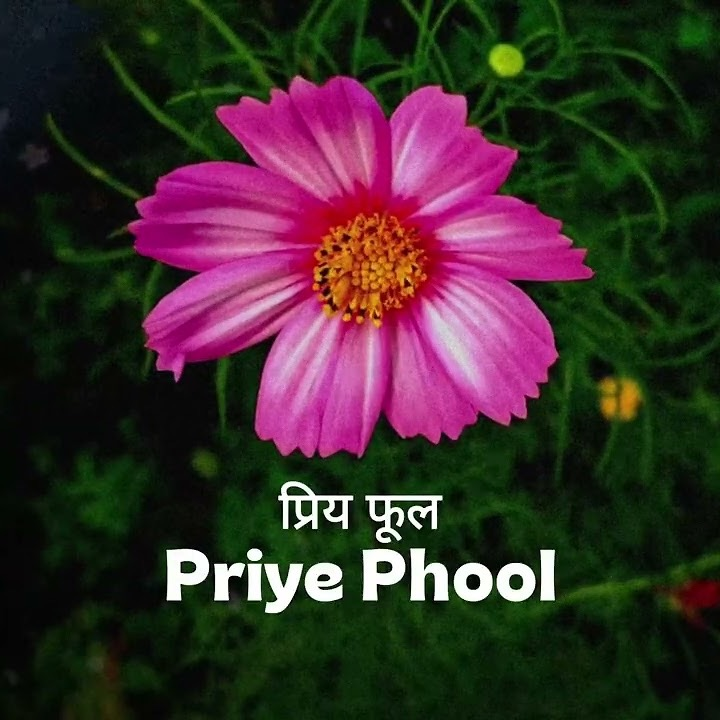
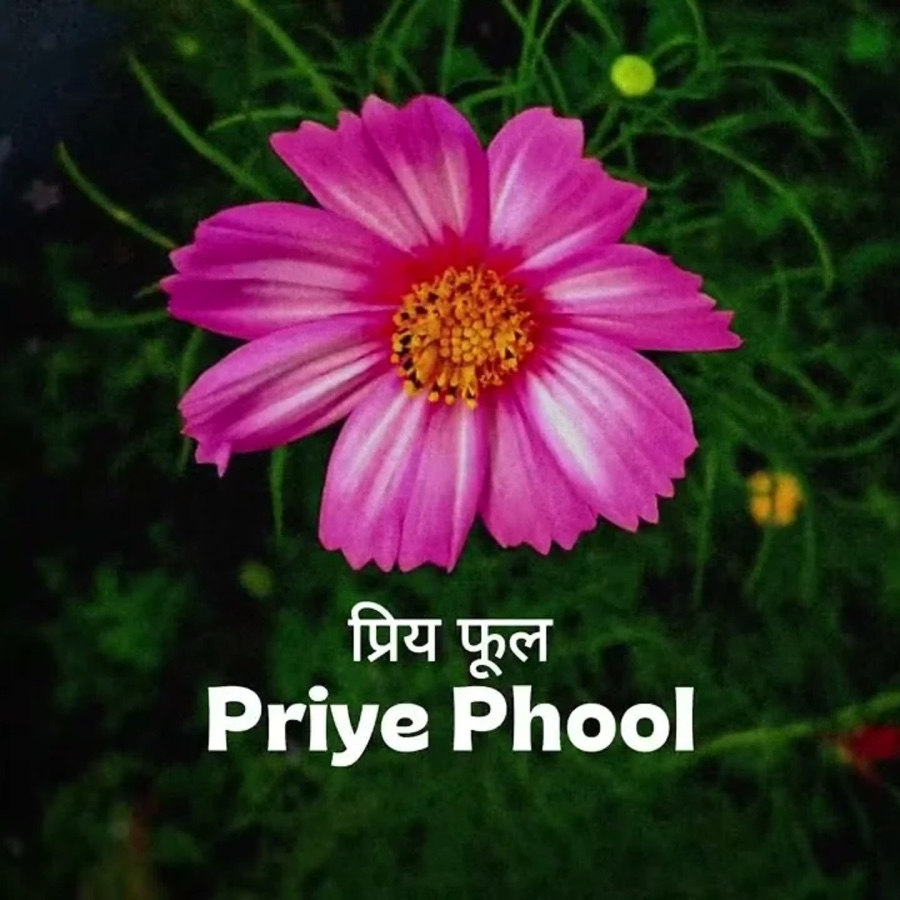
Priye Phool: new cover and 2026 year

Changed region(s): [[0.5194, 0.6722, 0.7639, 0.825], [0.2444, 0.7639, 0.4889, 0.8556], [0.3972, 0.6722, 0.4889, 0.7333]]

diff --git a/music.html b/music.html
@@ -1,1 +1,1 @@
-<!doctype html><html lang="en"><head><meta charset="utf-8"><meta name="viewport" content="width=device-width,initial-scale=1"><title>Music | Nikesh Lagun</title><meta name="description" content="Creative pursuits in acoustic songwriting and performance"><link rel="preconnect" href="https://fonts.googleapis.com"><link rel="preconnect" href="https://fonts.gstatic.com" crossorigin><link href="https://fonts.googleapis.com/css2?family=Instrument+Serif:ital@0;1&family=Inter:wght@300;400;500;600;700&display=swap" rel="stylesheet"><link rel="icon" type="image/svg+xml" href="img/favicon.svg"><meta name="theme-color" content="#40734D"><meta property="og:type" content="website"><meta property="og:site_name" content="Nikesh Lagun"><meta property="og:title" content="Music | Nikesh Lagun"><meta property="og:description" content="Creative pursuits in acoustic songwriting and performance"><meta property="og:image" content="https://nikeshlagun.com.np/img/nikesh.jpg"><meta name="twitter:card" content="summary_large_image"><link rel="canonical" href="https://nikeshlagun.com.np/music.html"><link rel="stylesheet" href="css/style.css"></head><body><header class="nav-wrap"><nav class="nav" id="nav"><a class="brand" href="index.html" aria-label="Nikesh Lagun, home"><img class="av" src="img/nikesh.jpg" alt=""><span class="logo-text">Nikesh Lagun</span></a><button class="burger" id="burger" aria-label="Menu"><span></span><span></span></button><div class="links" id="links"><div class="dd"><button class="ddbtn" type="button">Books &#9662;</button><div class="ddmenu"><a href="books.html">All books</a><a href="switch-on.html">Switch On (free)</a><a href="unspoken-goodbye.html">Unspoken Goodbye</a></div></div><a href="articles.html">Articles</a><a href="tips.html">Try it</a><a href="app.html">App <span class="soon">Soon</span></a><div class="dd"><button class="ddbtn" type="button">My research &#9662;</button><div class="ddmenu"><a href="research.html">Research map</a><a href="cognitive-drive-architecture.html">The big idea</a><a href="lagunian-dynamics.html">How it works</a><a href="publications.html">Papers</a><a href="https://lagun-lab.lovable.app" target="_blank" rel="noopener">Lagun Lab &#8599;</a><a href="https://www.scopus.com/authid/detail.uri?authorId=60009209500" target="_blank" rel="noopener">Scopus profile &#8599;</a></div></div><a href="about.html">About</a><button class="navsearch" type="button" aria-label="Search the site"><svg width="15" height="15" viewBox="0 0 20 20" fill="none" stroke="currentColor" stroke-width="2" stroke-linecap="round"><circle cx="9" cy="9" r="6"/><path d="M14 14l4 4"/></svg>Search <kbd>/</kbd></button><a class="cta-pill" href="switch-on.html#free">Read free book <i class="arrow">&#8599;</i></a></div></nav></header><section class="hero small warm"><div class="glow g1"></div><div class="wrap center"><span class="eyebrow">Creative Expression &amp; Cognitive Flow</span><div style="margin:6px 0 14px"><span class="eq"><i></i><i></i><i></i><i></i><i></i></span></div><h1> <em>Music</em></h1><p class="lead">Creative pursuits in acoustic songwriting and performance</p></div></section><section class="light dots"><div class="wrap duo"><div class="doc-m"><h2 class="sec-h">Music as an Extension of Cognitive Flow</h2><p>In addition to my theoretical work, I compose and perform original acoustic and pop music. Music has served as both a creative outlet and an experiential laboratory for understanding Drive, Flow, and performance dynamics.</p><p>Much of my theoretical work on Tension domain dynamics in CDA was informed by observing these variables in the context of extended musical practice and public performance.</p><h2 class="sec-h">Selected Works</h2><p>Hover over a record to slide the CD out and hear a short preview. On a phone, tap the record.</p><button class="soundbtn" id="soundbtn" type="button" aria-pressed="false"><i class="si"></i><span>Tap to turn sound on</span></button></div><aside class="doc-r"><div class="acard"><h4>Listen everywhere</h4><div class="alinks"><a href="https://open.spotify.com/artist/6xrah1XJbOOwV1KYTfFDBm" target="_blank" rel="noopener">Spotify <span>&#8599;</span></a><a href="https://www.youtube.com/@nikeshlagun03" target="_blank" rel="noopener">YouTube <span>&#8599;</span></a><a href="https://www.deezer.com/en/artist/272000692" target="_blank" rel="noopener">Deezer <span>&#8599;</span></a></div></div><div class="acard"><h4>Recognition</h4><p style="margin:0">Ranked #35 in the Pop category for Deezer fans in Nepal over 12 months (2025).</p><div class="alinks" style="margin-top:8px"><a href="https://www.viberate.com/artist/nikesh-lagun/" target="_blank" rel="noopener">Source <span>&#8599;</span></a></div></div></aside></div><div class="wrap"><div class="albums" id="albums"><div class="alb feature" data-audio="audio/parkhiraxu.wav"><div class="disc"><div class="cd"><div class="cdi"><i class="cdl"></i><i class="cdm"></i></div></div><div class="sleeve" style="background:linear-gradient(145deg,#5b4a3a,#1d1a17)"><img src="img/albums/parkhiraxu.jpg" alt="Parkhiraxu cover" onerror="this.remove()"><div class="ph"><span>Parkhiraxu</span><small>Nikesh Lagun</small></div></div></div><div class="ainfo"><button class="playbtn" type="button" aria-label="Play preview"><i class="pi"></i><span>Play preview</span></button><span class="tag">Latest single &middot; 2025</span><h3>Parkhiraxu</h3><p>My latest release. Official release on Spotify and YouTube, plus a sped-up version.</p><div class="row-btns" style="margin:0"><a class="btn btn-mini" href="https://open.spotify.com/track/5gO0QQGFNq63xM4Bt1Cima" target="_blank" rel="noopener">Spotify</a><a class="btn btn-mini" href="https://www.youtube.com/watch?v=aEZB_pVdTeA" target="_blank" rel="noopener">YouTube</a><a class="btn btn-mini" href="https://open.spotify.com/album/5WUUtXBhMBQmnjEegUJglC" target="_blank" rel="noopener">Sped-up version</a></div></div></div><div class="alb" data-audio="audio/priya_phool.wav"><div class="disc"><div class="cd"><div class="cdi"><i class="cdl"></i><i class="cdm"></i></div></div><div class="sleeve" style="background:linear-gradient(145deg,#b0307a,#1d3a26)"><img src="img/albums/priye-phool.jpg" alt="Priye Phool cover" onerror="this.remove()"><div class="ph"><span>Priye Phool</span><small>Nikesh Lagun</small></div></div></div><div class="ainfo"><button class="playbtn" type="button" aria-label="Play preview"><i class="pi"></i><span>Play preview</span></button><span class="tag">Original</span><h3>Priye Phool</h3><p>A soft song for a flower you love.</p></div></div><div class="alb" data-audio="audio/timi_ra_ma.wav"><div class="disc"><div class="cd"><div class="cdi"><i class="cdl"></i><i class="cdm"></i></div></div><div class="sleeve" style="background:linear-gradient(145deg,#B7A7D9,#40734D)"><img src="img/albums/timi-ra-ma.jpg" alt="Timi Ra Ma cover" onerror="this.remove()"><div class="ph"><span>Timi Ra Ma</span><small>Nikesh Lagun</small></div></div></div><div class="ainfo"><button class="playbtn" type="button" aria-label="Play preview"><i class="pi"></i><span>Play preview</span></button><span class="tag">Original · 2023</span><h3>Timi Ra Ma</h3><p>A gentle acoustic pop song about feelings, with a very simple arrangement.</p><div class="row-btns" style="margin:0"><a class="btn btn-mini" href="https://youtu.be/NZ_-13Cbvvs?si=_IxAdCCwFXn8BH7A" target="_blank" rel="noopener">YouTube</a></div></div></div><div class="alb" data-audio="audio/mayalu.wav"><div class="disc"><div class="cd"><div class="cdi"><i class="cdl"></i><i class="cdm"></i></div></div><div class="sleeve" style="background:linear-gradient(145deg,#D98B48,#B7A7D9)"><img src="img/albums/mayalu.jpg" alt="Mayalu cover" onerror="this.remove()"><div class="ph"><span>Mayalu</span><small>Nikesh Lagun</small></div></div></div><div class="ainfo"><button class="playbtn" type="button" aria-label="Play preview"><i class="pi"></i><span>Play preview</span></button><span class="tag">Original · 2023</span><h3>Mayalu</h3><p>A layered, guitar-led song about holding your focus on one thing.</p><div class="row-btns" style="margin:0"><a class="btn btn-mini" href="https://open.spotify.com/track/5CNr8ZFHXsyDMIW1C2IPoy?si=816ba9692e1349df" target="_blank" rel="noopener">Spotify</a><a class="btn btn-mini" href="https://youtu.be/9KtHtfZSQ4Q?si=q4G7wEqHxjQZ3e-4" target="_blank" rel="noopener">YouTube</a></div></div></div><div class="alb" data-audio="audio/ekasi_timi.wav"><div class="disc"><div class="cd"><div class="cdi"><i class="cdl"></i><i class="cdm"></i></div></div><div class="sleeve" style="background:linear-gradient(145deg,#C7D9CC,#40734D)"><img src="img/albums/ekasi-timi.jpg" alt="Ekasi Timi cover" onerror="this.remove()"><div class="ph"><span>Ekasi Timi</span><small>Nikesh Lagun</small></div></div></div><div class="ainfo"><button class="playbtn" type="button" aria-label="Play preview"><i class="pi"></i><span>Play preview</span></button><span class="tag">Featured artist · 2024</span><h3>Ekasi Timi</h3><p>A team song about how a group falls into flow together.</p><div class="row-btns" style="margin:0"><a class="btn btn-mini" href="https://open.spotify.com/album/1uQxchSuRRTHpqJxOpjFtm?si=kl0uD_bLTVecZFazNmt3NA" target="_blank" rel="noopener">Spotify</a><a class="btn btn-mini" href="https://youtu.be/T_xrI_TRY_4?si=n5sHMW9GwfSipJWd" target="_blank" rel="noopener">YouTube</a></div></div></div><div class="alb" data-audio="audio/bhagi_jaun.wav"><div class="disc"><div class="cd"><div class="cdi"><i class="cdl"></i><i class="cdm"></i></div></div><div class="sleeve" style="background:linear-gradient(145deg,#40734D,#D98B48)"><img src="img/albums/bhagi-jaun.jpg" alt="Bhagi Jaun cover" onerror="this.remove()"><div class="ph"><span>Bhagi Jaun</span><small>Nikesh Lagun</small></div></div></div><div class="ainfo"><button class="playbtn" type="button" aria-label="Play preview"><i class="pi"></i><span>Play preview</span></button><span class="tag">Featured artist · 2022</span><h3>Bhagi Jaun</h3><p>An up-tempo song with a changing rhythm, showing how small wobbles shape a performance.</p><div class="row-btns" style="margin:0"><a class="btn btn-mini" href="https://open.spotify.com/album/60OnRZqdOoN388U5yp5tIZ?si=gdOOipdmRNCJWZ1wJSp9jA" target="_blank" rel="noopener">Spotify</a><a class="btn btn-mini" href="https://youtu.be/nrVfHMrA8OE?si=d5PX5pSjLdChSJqv" target="_blank" rel="noopener">YouTube</a></div></div></div></div></div><div class="wrap cols2"><h2 class="sec-h">Music as a Cognitive Laboratory</h2><p>For theorists of effort and Flow, music remains an invaluable test domain:</p><ul class="ticks"><li>Effort is embodied and measurable in performance</li><li>Attention, resistance, and flexibility can be observed dynamically</li><li>Success and collapse states in Drive are immediately perceptible</li></ul><p>My continued engagement with music informs and is informed by the evolving CDA field. In this way, creative practice remains integrated with the broader inquiry into the structure of human effort.</p><h2 class="sec-h">Listen and Explore</h2><a class="btn btn-mini" href="https://open.spotify.com/artist/6xrah1XJbOOwV1KYTfFDBm" target="_blank" rel="noopener">Spotify Listen Now</a> <a class="btn btn-mini" href="https://www.youtube.com/@nikeshlagun03" target="_blank" rel="noopener">YouTube Listen Now</a> <a class="btn btn-mini" href="https://www.deezer.com/en/artist/272000692" target="_blank" rel="noopener">Deezer Listen Now</a> </div></section><footer class="footer"><div class="wrap"><div class="foot-cta"><h2>Ready to <em>start</em>?</h2><div class="foot-btns"><a class="btn btn-orange" href="switch-on.html#free">Read my free book <i class="arrow">&#8599;</i></a><a class="btn btn-light" href="app.html">Join the app waitlist</a></div></div><div class="foot-grid"><div><a class="brand" href="index.html"><img class="av" src="img/nikesh.jpg" alt=""><span class="logo-text">Nikesh Lagun</span></a><p class="muted">Author and researcher. I write about why starting and staying focused are hard, and how to make them easier. Founder of Cognitive Drive Architecture, a proposed new area of psychology.</p><div class="social"><a href="https://www.youtube.com/@nikeshlagun03" target="_blank" rel="noopener">YouTube</a><a href="https://www.instagram.com/neekeesh03" target="_blank" rel="noopener">Instagram</a><a href="https://www.linkedin.com/in/neekeesh03/" target="_blank" rel="noopener">LinkedIn</a><a href="https://nikeshlagun.substack.com/" target="_blank" rel="noopener">Newsletter</a></div></div><div><h4>Read</h4><a href="books.html">Books</a><a href="switch-on.html">Switch On (free)</a><a href="unspoken-goodbye.html">Unspoken Goodbye</a><a href="articles.html">Articles</a></div><div><h4>Try</h4><a href="tips.html">15-second check</a><a href="tips.html#tips">Simple tips</a><a href="app.html">The app (soon)</a></div><div><h4>More</h4><a href="about.html">About</a><a href="cognitive-drive-architecture.html">My research</a><a href="music.html">Music</a><a href="https://lagun-lab.lovable.app" target="_blank" rel="noopener">Lagun Lab</a><a href="contact.html">Contact</a></div></div><div class="indexed"><span>My research is listed on:</span><a href="https://www.scopus.com/authid/detail.uri?authorId=60009209500" target="_blank" rel="noopener">Scopus</a><a href="https://www.researchgate.net/profile/Nikesh-Lagun" target="_blank" rel="noopener">ResearchGate</a><a href="https://scholar.google.com/citations?user=nGsGSgIAAAAJ&hl=en&oi=ao" target="_blank" rel="noopener">Google Scholar</a><a href="https://orcid.org/0009-0005-6372-4852" target="_blank" rel="noopener">ORCID</a><a href="https://ssrn.com/author=7293736" target="_blank" rel="noopener">SSRN</a><a href="https://figshare.com/authors/Nikesh_Lagun/18114037" target="_blank" rel="noopener">Figshare</a><a href="https://www.semanticscholar.org/author/Nikesh-Lagun/2304103301" target="_blank" rel="noopener">Semantic Scholar</a><a href="https://cv.hal.science/nikesh-lagun" target="_blank" rel="noopener">HAL Science</a><a href="https://search.worldcat.org/search?q=nikesh+lagun&offset=1" target="_blank" rel="noopener">WorldCat</a><a href="https://hollis.harvard.edu/primo-explore/search?search-banner-input=nikesh%20lagun&tab=everything&vid=HVD2&lang=en_US&offset=0&query=any,contains,nikesh%20lagun" target="_blank" rel="noopener">Harvard Library</a></div><div class="copy">&copy; 2026 Nikesh Lagun. All rights reserved.</div></div></footer><script src="js/main.js"></script></body></html>
+<!doctype html><html lang="en"><head><meta charset="utf-8"><meta name="viewport" content="width=device-width,initial-scale=1"><title>Music | Nikesh Lagun</title><meta name="description" content="Creative pursuits in acoustic songwriting and performance"><link rel="preconnect" href="https://fonts.googleapis.com"><link rel="preconnect" href="https://fonts.gstatic.com" crossorigin><link href="https://fonts.googleapis.com/css2?family=Instrument+Serif:ital@0;1&family=Inter:wght@300;400;500;600;700&display=swap" rel="stylesheet"><link rel="icon" type="image/svg+xml" href="img/favicon.svg"><meta name="theme-color" content="#40734D"><meta property="og:type" content="website"><meta property="og:site_name" content="Nikesh Lagun"><meta property="og:title" content="Music | Nikesh Lagun"><meta property="og:description" content="Creative pursuits in acoustic songwriting and performance"><meta property="og:image" content="https://nikeshlagun.com.np/img/nikesh.jpg"><meta name="twitter:card" content="summary_large_image"><link rel="canonical" href="https://nikeshlagun.com.np/music.html"><link rel="stylesheet" href="css/style.css"></head><body><header class="nav-wrap"><nav class="nav" id="nav"><a class="brand" href="index.html" aria-label="Nikesh Lagun, home"><img class="av" src="img/nikesh.jpg" alt=""><span class="logo-text">Nikesh Lagun</span></a><button class="burger" id="burger" aria-label="Menu"><span></span><span></span></button><div class="links" id="links"><div class="dd"><button class="ddbtn" type="button">Books &#9662;</button><div class="ddmenu"><a href="books.html">All books</a><a href="switch-on.html">Switch On (free)</a><a href="unspoken-goodbye.html">Unspoken Goodbye</a></div></div><a href="articles.html">Articles</a><a href="tips.html">Try it</a><a href="app.html">App <span class="soon">Soon</span></a><div class="dd"><button class="ddbtn" type="button">My research &#9662;</button><div class="ddmenu"><a href="research.html">Research map</a><a href="cognitive-drive-architecture.html">The big idea</a><a href="lagunian-dynamics.html">How it works</a><a href="publications.html">Papers</a><a href="https://lagun-lab.lovable.app" target="_blank" rel="noopener">Lagun Lab &#8599;</a><a href="https://www.scopus.com/authid/detail.uri?authorId=60009209500" target="_blank" rel="noopener">Scopus profile &#8599;</a></div></div><a href="about.html">About</a><button class="navsearch" type="button" aria-label="Search the site"><svg width="15" height="15" viewBox="0 0 20 20" fill="none" stroke="currentColor" stroke-width="2" stroke-linecap="round"><circle cx="9" cy="9" r="6"/><path d="M14 14l4 4"/></svg>Search <kbd>/</kbd></button><a class="cta-pill" href="switch-on.html#free">Read free book <i class="arrow">&#8599;</i></a></div></nav></header><section class="hero small warm"><div class="glow g1"></div><div class="wrap center"><span class="eyebrow">Creative Expression &amp; Cognitive Flow</span><div style="margin:6px 0 14px"><span class="eq"><i></i><i></i><i></i><i></i><i></i></span></div><h1> <em>Music</em></h1><p class="lead">Creative pursuits in acoustic songwriting and performance</p></div></section><section class="light dots"><div class="wrap duo"><div class="doc-m"><h2 class="sec-h">Music as an Extension of Cognitive Flow</h2><p>In addition to my theoretical work, I compose and perform original acoustic and pop music. Music has served as both a creative outlet and an experiential laboratory for understanding Drive, Flow, and performance dynamics.</p><p>Much of my theoretical work on Tension domain dynamics in CDA was informed by observing these variables in the context of extended musical practice and public performance.</p><h2 class="sec-h">Selected Works</h2><p>Hover over a record to slide the CD out and hear a short preview. On a phone, tap the record.</p><button class="soundbtn" id="soundbtn" type="button" aria-pressed="false"><i class="si"></i><span>Tap to turn sound on</span></button></div><aside class="doc-r"><div class="acard"><h4>Listen everywhere</h4><div class="alinks"><a href="https://open.spotify.com/artist/6xrah1XJbOOwV1KYTfFDBm" target="_blank" rel="noopener">Spotify <span>&#8599;</span></a><a href="https://www.youtube.com/@nikeshlagun03" target="_blank" rel="noopener">YouTube <span>&#8599;</span></a><a href="https://www.deezer.com/en/artist/272000692" target="_blank" rel="noopener">Deezer <span>&#8599;</span></a></div></div><div class="acard"><h4>Recognition</h4><p style="margin:0">Ranked #35 in the Pop category for Deezer fans in Nepal over 12 months (2025).</p><div class="alinks" style="margin-top:8px"><a href="https://www.viberate.com/artist/nikesh-lagun/" target="_blank" rel="noopener">Source <span>&#8599;</span></a></div></div></aside></div><div class="wrap"><div class="albums" id="albums"><div class="alb feature" data-audio="audio/parkhiraxu.wav"><div class="disc"><div class="cd"><div class="cdi"><i class="cdl"></i><i class="cdm"></i></div></div><div class="sleeve" style="background:linear-gradient(145deg,#5b4a3a,#1d1a17)"><img src="img/albums/parkhiraxu.jpg" alt="Parkhiraxu cover" onerror="this.remove()"><div class="ph"><span>Parkhiraxu</span><small>Nikesh Lagun</small></div></div></div><div class="ainfo"><button class="playbtn" type="button" aria-label="Play preview"><i class="pi"></i><span>Play preview</span></button><span class="tag">Latest single &middot; 2025</span><h3>Parkhiraxu</h3><p>My latest release. Official release on Spotify and YouTube, plus a sped-up version.</p><div class="row-btns" style="margin:0"><a class="btn btn-mini" href="https://open.spotify.com/track/5gO0QQGFNq63xM4Bt1Cima" target="_blank" rel="noopener">Spotify</a><a class="btn btn-mini" href="https://www.youtube.com/watch?v=aEZB_pVdTeA" target="_blank" rel="noopener">YouTube</a><a class="btn btn-mini" href="https://open.spotify.com/album/5WUUtXBhMBQmnjEegUJglC" target="_blank" rel="noopener">Sped-up version</a></div></div></div><div class="alb" data-audio="audio/priya_phool.wav"><div class="disc"><div class="cd"><div class="cdi"><i class="cdl"></i><i class="cdm"></i></div></div><div class="sleeve" style="background:linear-gradient(145deg,#b0307a,#1d3a26)"><img src="img/albums/priye-phool.jpg" alt="Priye Phool cover" onerror="this.remove()"><div class="ph"><span>Priye Phool</span><small>Nikesh Lagun</small></div></div></div><div class="ainfo"><button class="playbtn" type="button" aria-label="Play preview"><i class="pi"></i><span>Play preview</span></button><span class="tag">Original · 2026</span><h3>Priye Phool</h3><p>A soft song for a flower you love.</p></div></div><div class="alb" data-audio="audio/timi_ra_ma.wav"><div class="disc"><div class="cd"><div class="cdi"><i class="cdl"></i><i class="cdm"></i></div></div><div class="sleeve" style="background:linear-gradient(145deg,#B7A7D9,#40734D)"><img src="img/albums/timi-ra-ma.jpg" alt="Timi Ra Ma cover" onerror="this.remove()"><div class="ph"><span>Timi Ra Ma</span><small>Nikesh Lagun</small></div></div></div><div class="ainfo"><button class="playbtn" type="button" aria-label="Play preview"><i class="pi"></i><span>Play preview</span></button><span class="tag">Original · 2023</span><h3>Timi Ra Ma</h3><p>A gentle acoustic pop song about feelings, with a very simple arrangement.</p><div class="row-btns" style="margin:0"><a class="btn btn-mini" href="https://youtu.be/NZ_-13Cbvvs?si=_IxAdCCwFXn8BH7A" target="_blank" rel="noopener">YouTube</a></div></div></div><div class="alb" data-audio="audio/mayalu.wav"><div class="disc"><div class="cd"><div class="cdi"><i class="cdl"></i><i class="cdm"></i></div></div><div class="sleeve" style="background:linear-gradient(145deg,#D98B48,#B7A7D9)"><img src="img/albums/mayalu.jpg" alt="Mayalu cover" onerror="this.remove()"><div class="ph"><span>Mayalu</span><small>Nikesh Lagun</small></div></div></div><div class="ainfo"><button class="playbtn" type="button" aria-label="Play preview"><i class="pi"></i><span>Play preview</span></button><span class="tag">Original · 2023</span><h3>Mayalu</h3><p>A layered, guitar-led song about holding your focus on one thing.</p><div class="row-btns" style="margin:0"><a class="btn btn-mini" href="https://open.spotify.com/track/5CNr8ZFHXsyDMIW1C2IPoy?si=816ba9692e1349df" target="_blank" rel="noopener">Spotify</a><a class="btn btn-mini" href="https://youtu.be/9KtHtfZSQ4Q?si=q4G7wEqHxjQZ3e-4" target="_blank" rel="noopener">YouTube</a></div></div></div><div class="alb" data-audio="audio/ekasi_timi.wav"><div class="disc"><div class="cd"><div class="cdi"><i class="cdl"></i><i class="cdm"></i></div></div><div class="sleeve" style="background:linear-gradient(145deg,#C7D9CC,#40734D)"><img src="img/albums/ekasi-timi.jpg" alt="Ekasi Timi cover" onerror="this.remove()"><div class="ph"><span>Ekasi Timi</span><small>Nikesh Lagun</small></div></div></div><div class="ainfo"><button class="playbtn" type="button" aria-label="Play preview"><i class="pi"></i><span>Play preview</span></button><span class="tag">Featured artist · 2024</span><h3>Ekasi Timi</h3><p>A team song about how a group falls into flow together.</p><div class="row-btns" style="margin:0"><a class="btn btn-mini" href="https://open.spotify.com/album/1uQxchSuRRTHpqJxOpjFtm?si=kl0uD_bLTVecZFazNmt3NA" target="_blank" rel="noopener">Spotify</a><a class="btn btn-mini" href="https://youtu.be/T_xrI_TRY_4?si=n5sHMW9GwfSipJWd" target="_blank" rel="noopener">YouTube</a></div></div></div><div class="alb" data-audio="audio/bhagi_jaun.wav"><div class="disc"><div class="cd"><div class="cdi"><i class="cdl"></i><i class="cdm"></i></div></div><div class="sleeve" style="background:linear-gradient(145deg,#40734D,#D98B48)"><img src="img/albums/bhagi-jaun.jpg" alt="Bhagi Jaun cover" onerror="this.remove()"><div class="ph"><span>Bhagi Jaun</span><small>Nikesh Lagun</small></div></div></div><div class="ainfo"><button class="playbtn" type="button" aria-label="Play preview"><i class="pi"></i><span>Play preview</span></button><span class="tag">Featured artist · 2022</span><h3>Bhagi Jaun</h3><p>An up-tempo song with a changing rhythm, showing how small wobbles shape a performance.</p><div class="row-btns" style="margin:0"><a class="btn btn-mini" href="https://open.spotify.com/album/60OnRZqdOoN388U5yp5tIZ?si=gdOOipdmRNCJWZ1wJSp9jA" target="_blank" rel="noopener">Spotify</a><a class="btn btn-mini" href="https://youtu.be/nrVfHMrA8OE?si=d5PX5pSjLdChSJqv" target="_blank" rel="noopener">YouTube</a></div></div></div></div></div><div class="wrap cols2"><h2 class="sec-h">Music as a Cognitive Laboratory</h2><p>For theorists of effort and Flow, music remains an invaluable test domain:</p><ul class="ticks"><li>Effort is embodied and measurable in performance</li><li>Attention, resistance, and flexibility can be observed dynamically</li><li>Success and collapse states in Drive are immediately perceptible</li></ul><p>My continued engagement with music informs and is informed by the evolving CDA field. In this way, creative practice remains integrated with the broader inquiry into the structure of human effort.</p><h2 class="sec-h">Listen and Explore</h2><a class="btn btn-mini" href="https://open.spotify.com/artist/6xrah1XJbOOwV1KYTfFDBm" target="_blank" rel="noopener">Spotify Listen Now</a> <a class="btn btn-mini" href="https://www.youtube.com/@nikeshlagun03" target="_blank" rel="noopener">YouTube Listen Now</a> <a class="btn btn-mini" href="https://www.deezer.com/en/artist/272000692" target="_blank" rel="noopener">Deezer Listen Now</a> </div></section><footer class="footer"><div class="wrap"><div class="foot-cta"><h2>Ready to <em>start</em>?</h2><div class="foot-btns"><a class="btn btn-orange" href="switch-on.html#free">Read my free book <i class="arrow">&#8599;</i></a><a class="btn btn-light" href="app.html">Join the app waitlist</a></div></div><div class="foot-grid"><div><a class="brand" href="index.html"><img class="av" src="img/nikesh.jpg" alt=""><span class="logo-text">Nikesh Lagun</span></a><p class="muted">Author and researcher. I write about why starting and staying focused are hard, and how to make them easier. Founder of Cognitive Drive Architecture, a proposed new area of psychology.</p><div class="social"><a href="https://www.youtube.com/@nikeshlagun03" target="_blank" rel="noopener">YouTube</a><a href="https://www.instagram.com/neekeesh03" target="_blank" rel="noopener">Instagram</a><a href="https://www.linkedin.com/in/neekeesh03/" target="_blank" rel="noopener">LinkedIn</a><a href="https://nikeshlagun.substack.com/" target="_blank" rel="noopener">Newsletter</a></div></div><div><h4>Read</h4><a href="books.html">Books</a><a href="switch-on.html">Switch On (free)</a><a href="unspoken-goodbye.html">Unspoken Goodbye</a><a href="articles.html">Articles</a></div><div><h4>Try</h4><a href="tips.html">15-second check</a><a href="tips.html#tips">Simple tips</a><a href="app.html">The app (soon)</a></div><div><h4>More</h4><a href="about.html">About</a><a href="cognitive-drive-architecture.html">My research</a><a href="music.html">Music</a><a href="https://lagun-lab.lovable.app" target="_blank" rel="noopener">Lagun Lab</a><a href="contact.html">Contact</a></div></div><div class="indexed"><span>My research is listed on:</span><a href="https://www.scopus.com/authid/detail.uri?authorId=60009209500" target="_blank" rel="noopener">Scopus</a><a href="https://www.researchgate.net/profile/Nikesh-Lagun" target="_blank" rel="noopener">ResearchGate</a><a href="https://scholar.google.com/citations?user=nGsGSgIAAAAJ&hl=en&oi=ao" target="_blank" rel="noopener">Google Scholar</a><a href="https://orcid.org/0009-0005-6372-4852" target="_blank" rel="noopener">ORCID</a><a href="https://ssrn.com/author=7293736" target="_blank" rel="noopener">SSRN</a><a href="https://figshare.com/authors/Nikesh_Lagun/18114037" target="_blank" rel="noopener">Figshare</a><a href="https://www.semanticscholar.org/author/Nikesh-Lagun/2304103301" target="_blank" rel="noopener">Semantic Scholar</a><a href="https://cv.hal.science/nikesh-lagun" target="_blank" rel="noopener">HAL Science</a><a href="https://search.worldcat.org/search?q=nikesh+lagun&offset=1" target="_blank" rel="noopener">WorldCat</a><a href="https://hollis.harvard.edu/primo-explore/search?search-banner-input=nikesh%20lagun&tab=everything&vid=HVD2&lang=en_US&offset=0&query=any,contains,nikesh%20lagun" target="_blank" rel="noopener">Harvard Library</a></div><div class="copy">&copy; 2026 Nikesh Lagun. All rights reserved.</div></div></footer><script src="js/main.js"></script></body></html>
